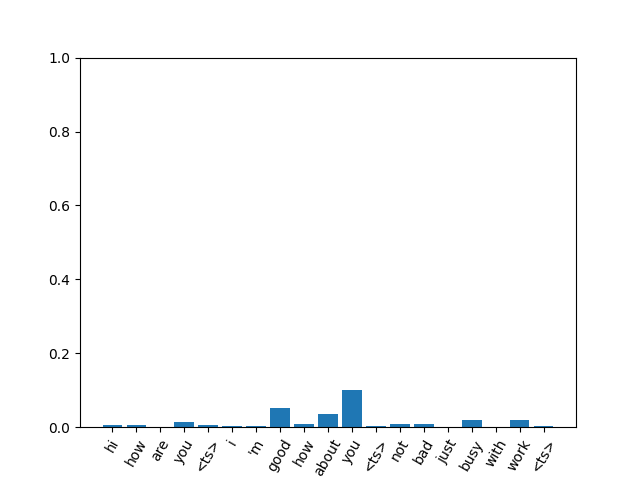
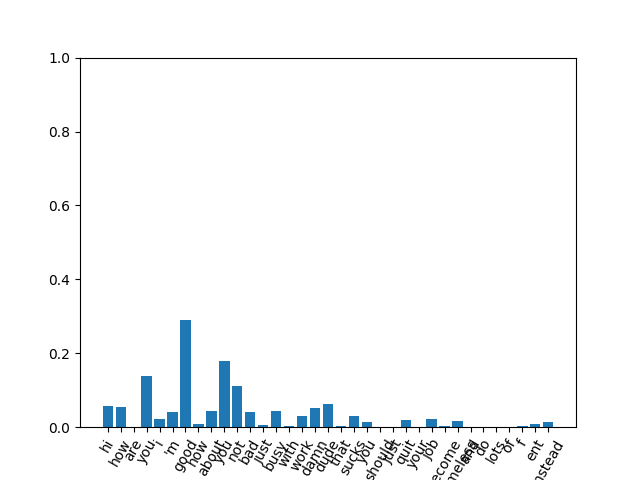
Setup windows 11 env building. Not finished

Changed region(s): [[0.1562, 0.6562, 0.875, 1.0]]

diff --git a/turn-gpt-test/test.py b/turn-gpt-test/test.py
@@ -20,18 +20,21 @@ def main():
         "I'm good, how about you?",
         "Not bad, just busy with work."
     ]
+    
+    full_turn_list = "Hi, how are you? I'm good, how about you? Not bad, just busy with work. Damn dude, that sucks. You should just quit your job, become homeless, and do lots of fent instead."
 
-    out = model.string_list_to_trp(simple_turn_list)
+    out = model.string_list_to_trp(full_turn_list)
     print("TRP for simple example:", out["trp_probs"])
-
-
+    for prob in out["trp_probs"][0]:
+        prob*=10
+    
     def plot_trp(P, text):
         fig, ax = plt.subplots(1, 1)
         x = torch.arange(len(P))
         ax.bar(x, P)
         ax.set_xticks(x)
         ax.set_xticklabels(text, rotation=60)
-        ax.set_ylim([0, 1])
+        ax.set_ylim([0, 1]) # type: ignore
         fig.savefig("output.png")  # Save the figure instead of displaying it
         return fig, ax
 

diff --git a/faster-whisper-test/applications/get_audio_devices.py b/faster-whisper-test/applications/get_audio_devices.py
@@ -1,0 +1,13 @@
+import pyaudio
+
+def get_audio_devices():
+    p = pyaudio.PyAudio()
+    
+    print("Available devices:")
+    for i in range(p.get_device_count()):
+        dev_info = p.get_device_info_by_index(i)
+        max_in_channels = dev_info.get('maxInputChannels', 0)
+        print(f"  Device {i}: {dev_info['name']} (max input channels = {max_in_channels})")
+
+if __name__ == "__main__":
+    get_audio_devices()

diff --git a/faster-whisper-test/applications/transcribe_audio.py b/faster-whisper-test/applications/transcribe_audio.py
@@ -70,7 +70,7 @@ def transcribe_audio_continuous(
     except KeyboardInterrupt:
         print("Stopping continuous transcription...")
     finally:
-        os.remove()
+        os.remove(tmp_filename)
         stream.stop_stream()
         stream.close()
         p.terminate()

diff --git a/faster-whisper-test/src/utils.py b/faster-whisper-test/src/utils.py
@@ -1,7 +1,6 @@
 import pyaudio
 import wave
 
-
 def transcribeChunk(model, file_path):
     segments, info = model.transcribe(file_path, beam_size=7)
     transcription = ' '.join(segment.text for segment in segments)
